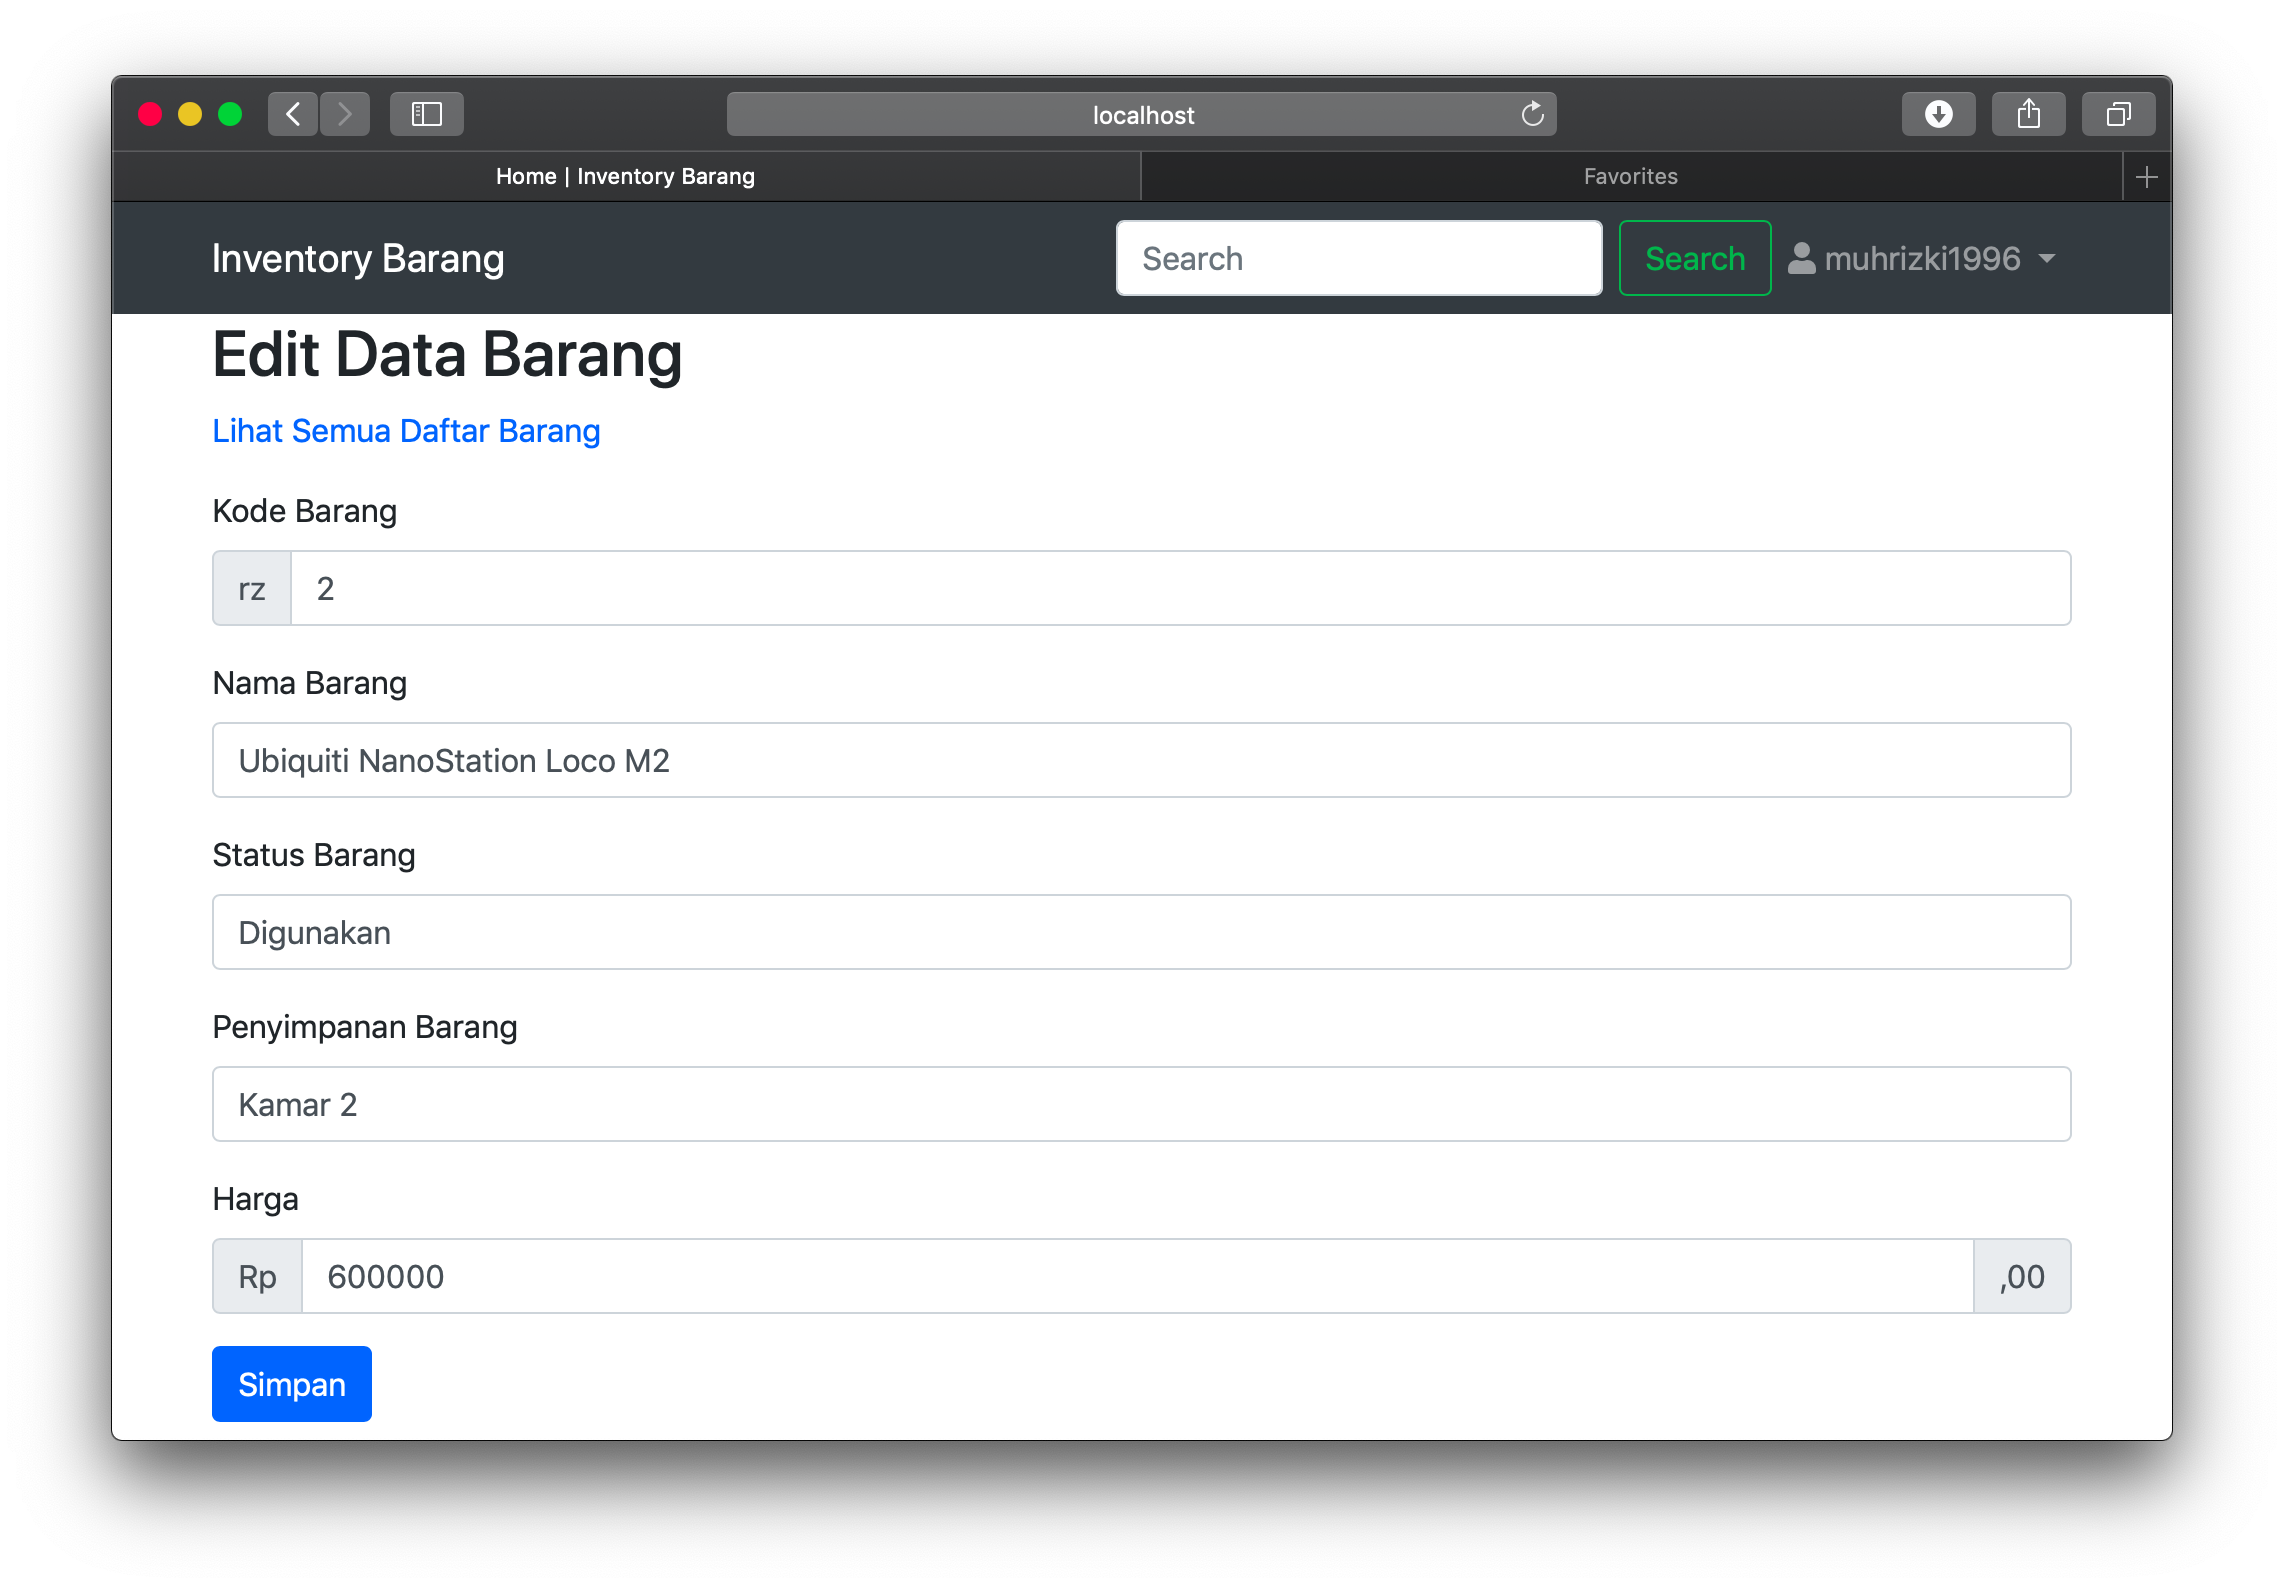
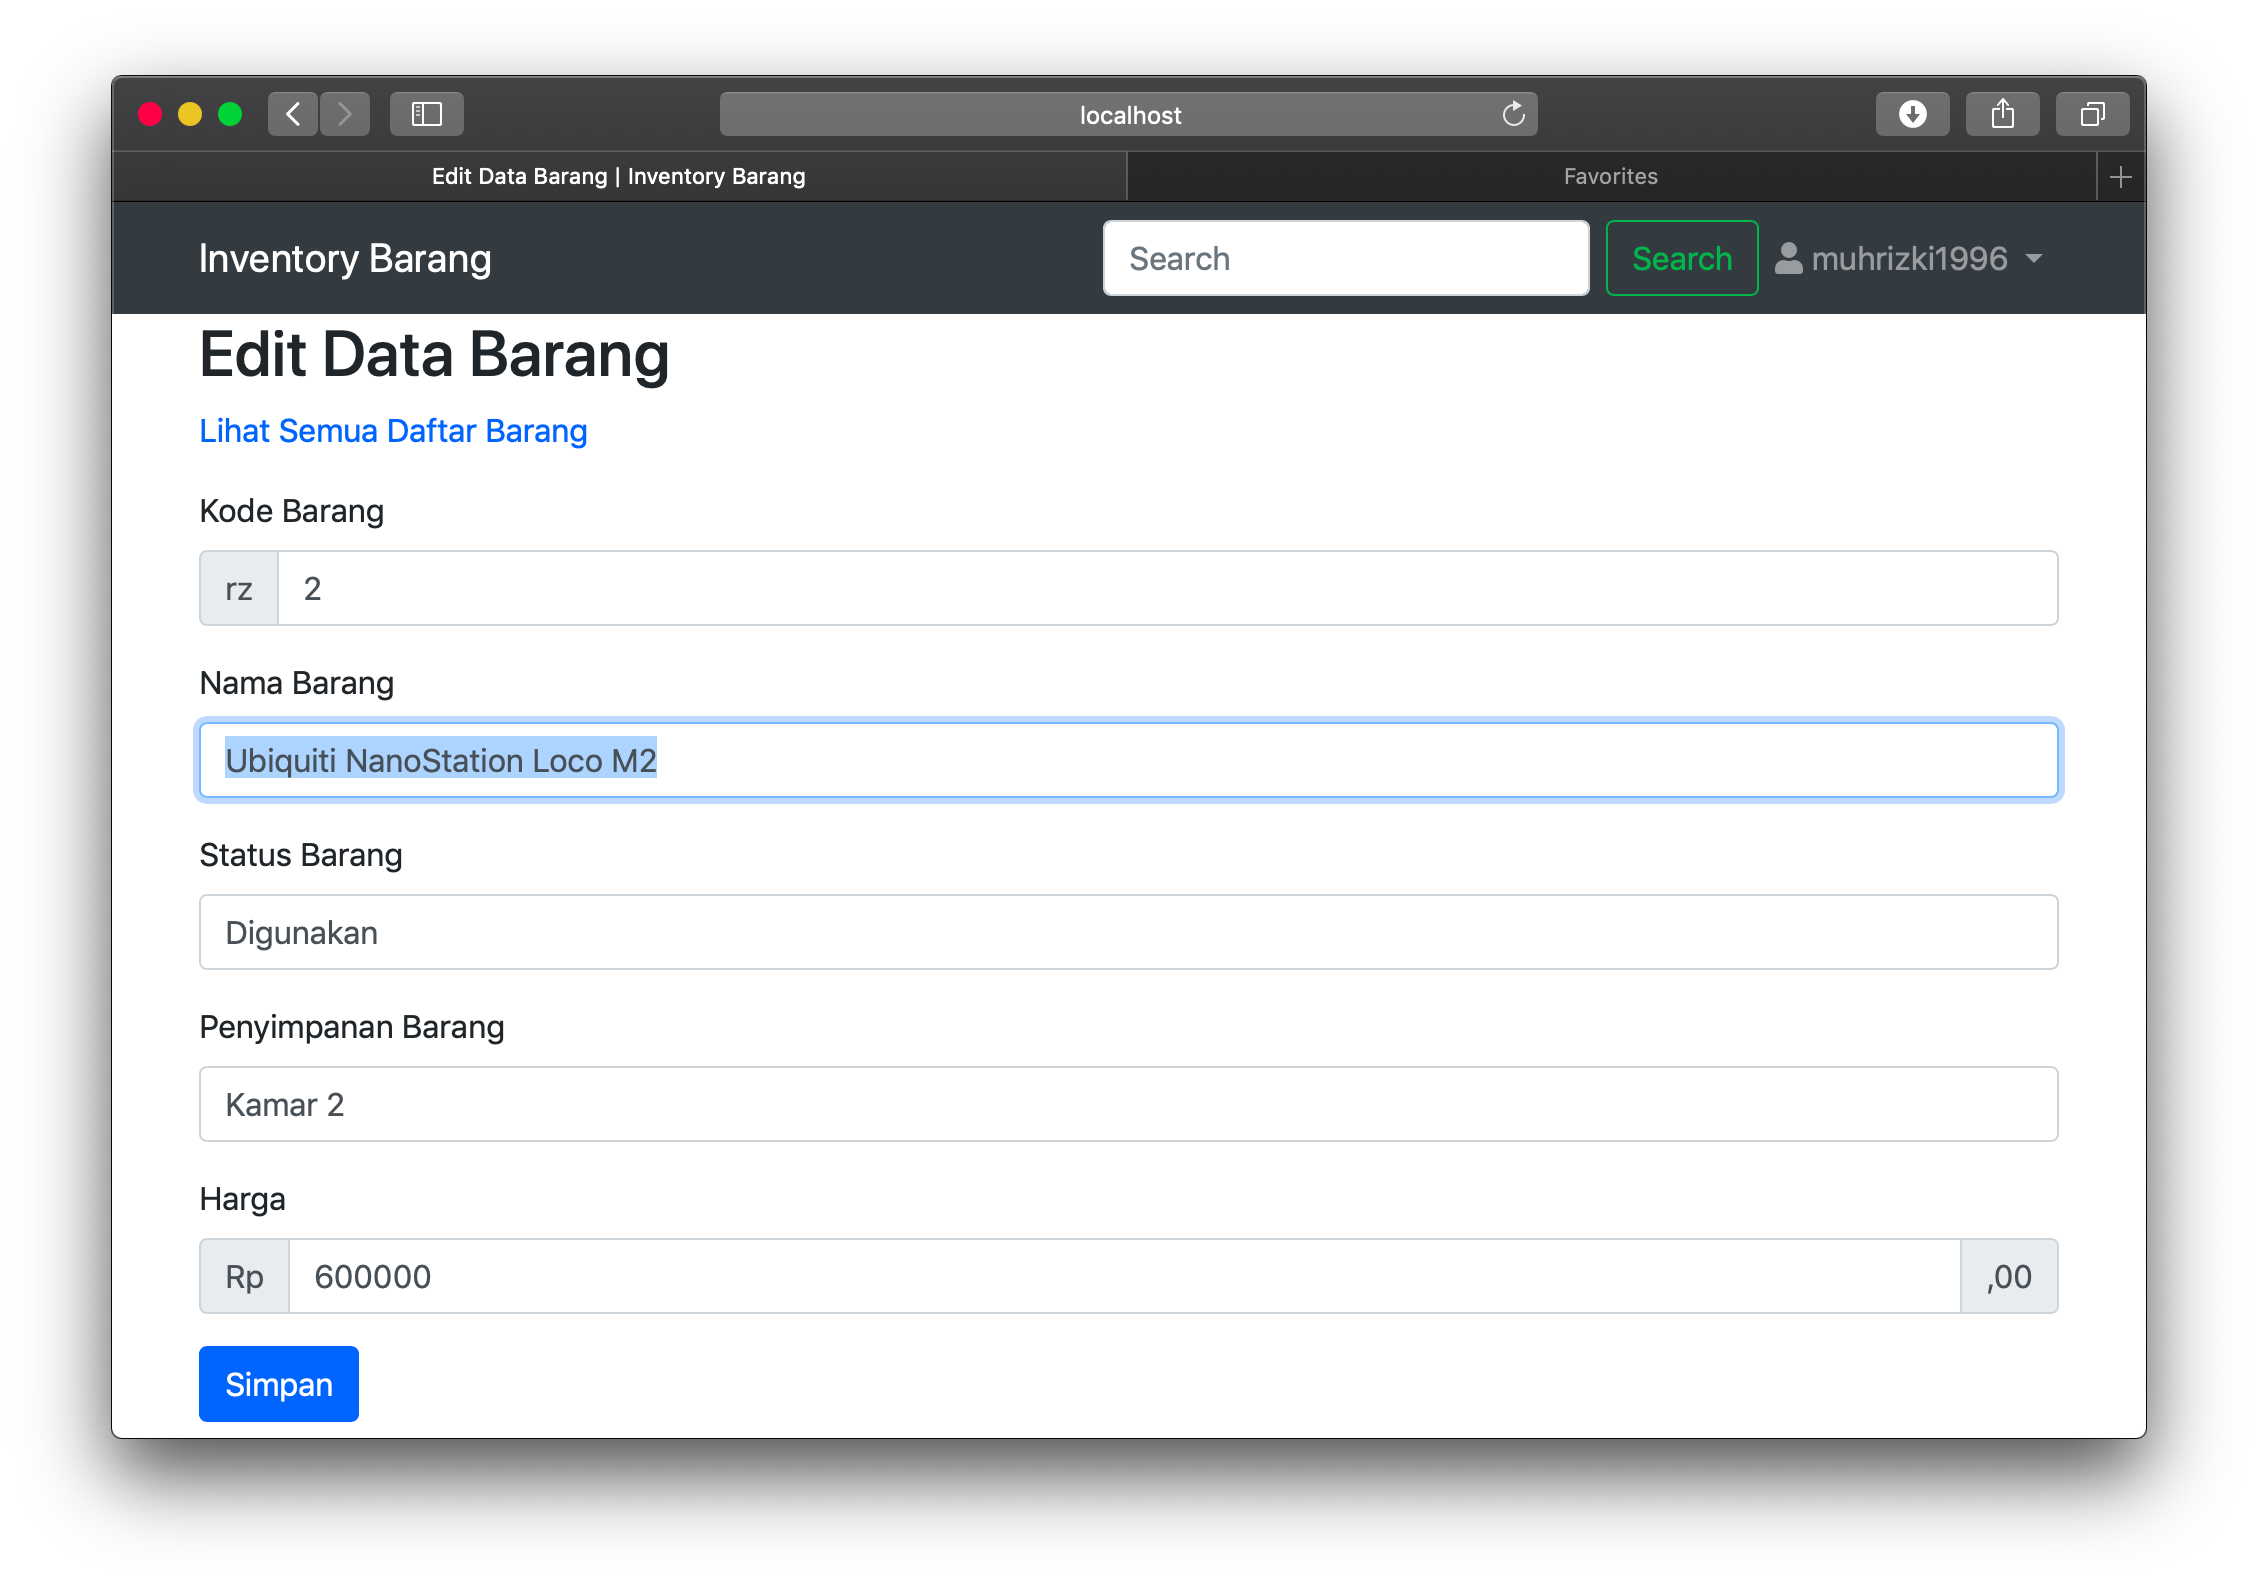
Fixing Petunjuk Penggunaan, edit.php and Re-Screenshot edit-barang.png

diff --git a/admin/edit.php b/admin/edit.php
@@ -8,7 +8,7 @@
   <meta name="description" content="">
   <meta name="author" content="">
 
-  <title>Home | Inventory Barang</title>
+  <title>Edit Data Barang | Inventory Barang</title>
 
   <!-- Bootstrap core CSS -->
   <link href="../assets/css/bootstrap.css" rel="stylesheet">

diff --git a/README.md b/README.md
@@ -10,8 +10,9 @@ Informasi Aplikasi
 - Download build terakhir (zip) dari menu <b>"releases"</b> > <b>"Assets"</b> > <b>"Source Code (zip)"</b>,
 - Extract file hasil download, lalu copy seluruh isi dari folder <b>"aplikasi-inventory-barang-sederhana-php-(versi)"</b> ke direktori <b>"public_html"</b> (hosting) atau <b>"htdocs"</b> (XAMPP),
 - Buat database dengan nama <b>"inv-barang2"</b> pada MySQL,
-- Ubah file <b>"koneksi.php"</b> yang terdapat pada direktori <b>"inc"</b> (seperti: host database, user database, password database, atau nama database (jika membuat database dengan nama selain "inv-barang2")).
-- Username: muhrizki1996 Password: 1234
+- Masuk ke <b>"phpMyAdmin"</b> > <b>"inv-barang2"</b> atau nama database kalian (jika membuat database dengan nama selain "inv-barang2")) > <b>"Import"</b> > <b>"File to Import:"</b> > <b>"inv-barang2.sql"</b> > <b>"Go"</b>,
+- Ubah file <b>"koneksi.php"</b> yang terdapat pada direktori <b>"inc"</b> (seperti: host database, user database, password database, atau nama database (jika membuat database dengan nama selain "inv-barang2")),
+- Username: muhrizki1996 Password: 1234 .
 
 --------------------------------------------------------------------------------------------
 
